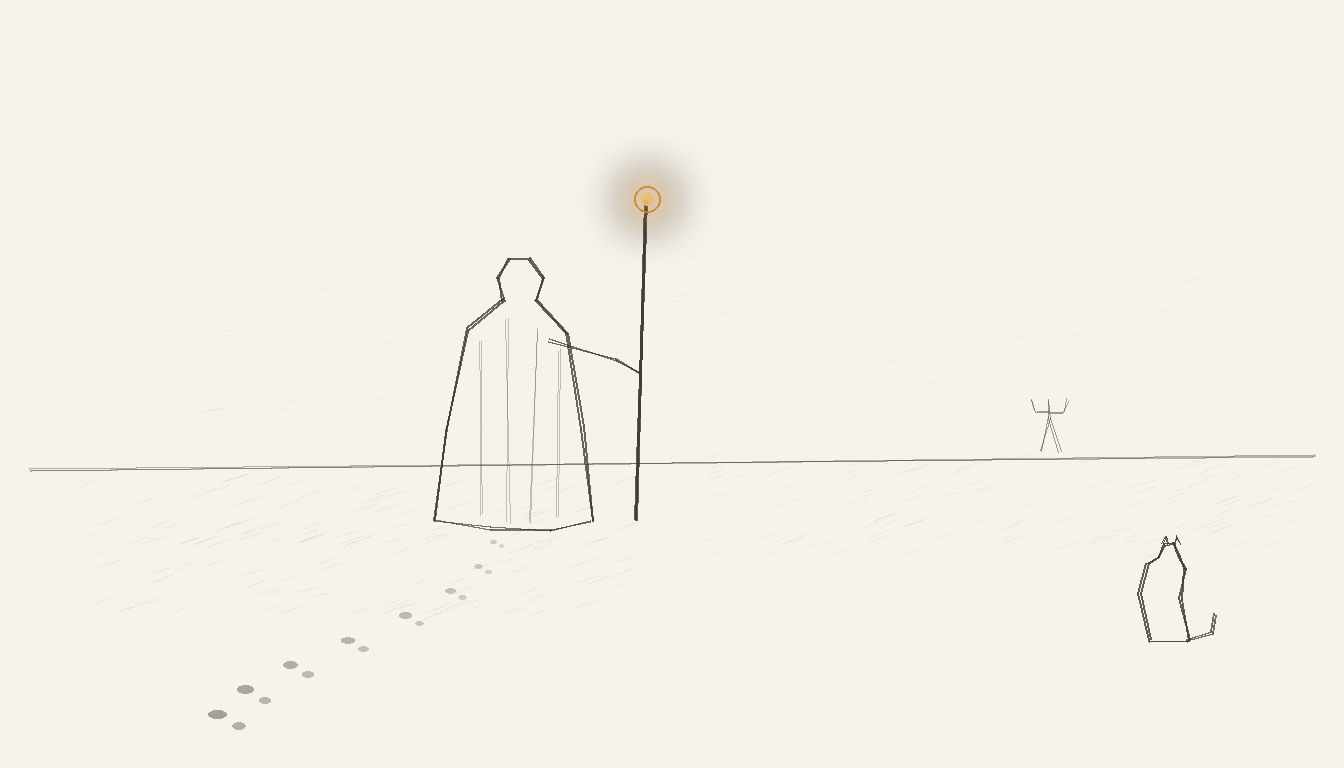
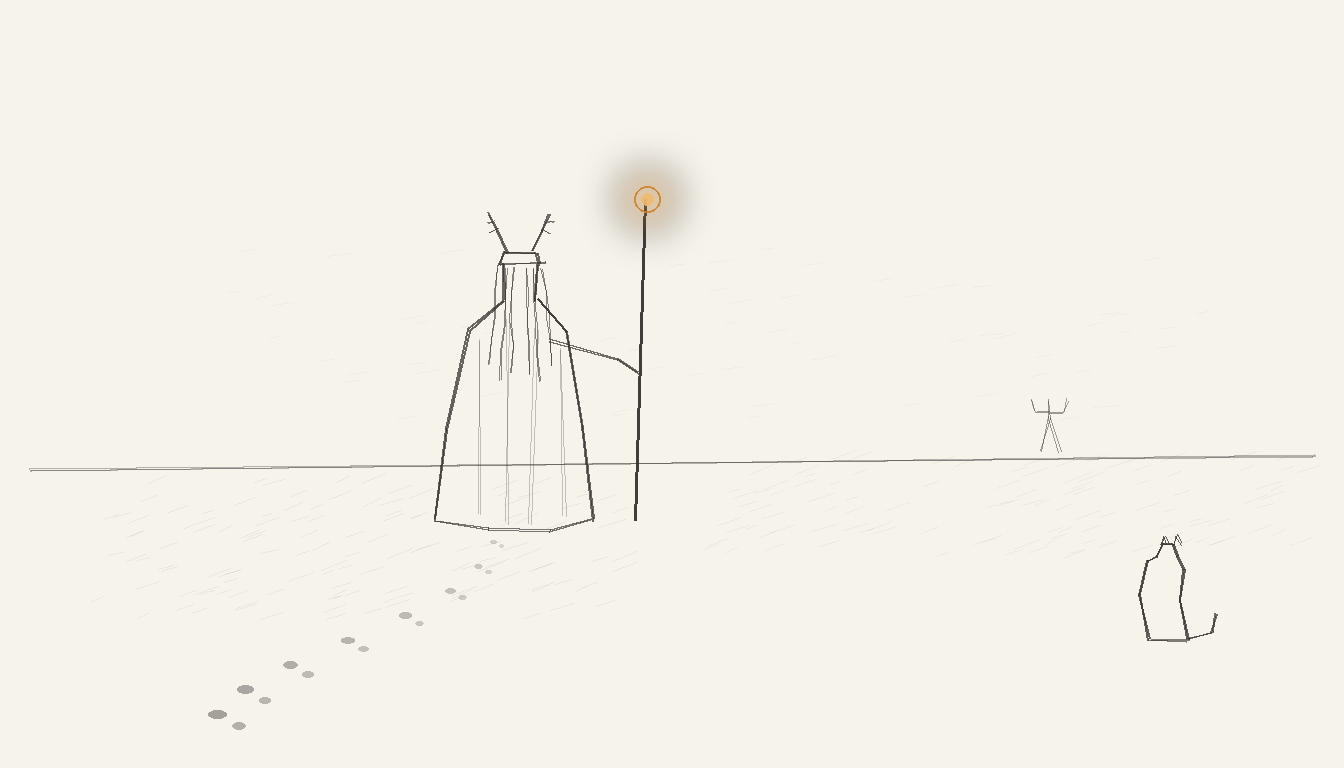
docs: the Wizard is a Quebec wizard — Windigo spec (antlered cap, dreadlocks) in page, hero, cameo

Changed region(s): [[0.3438, 0.3125, 0.4375, 0.6875], [0.8438, 0.7812, 0.9062, 0.8438], [0.8438, 0.6875, 0.875, 0.75]]

diff --git a/tools/gen_hero_image.py b/tools/gen_hero_image.py
@@ -91,8 +91,9 @@ DEFAULT_FLUX_VENV = pathlib.Path.home() / "Projects" / "comfy-lab" / ".venv-flux
 # the page is actually about him. Appended by --wizard so individual prompts
 # don't have to re-describe him and he stays visually consistent across pages.
 WIZARD_CAMEO = (
-    ". Small in the background, a robed wizard figure with a tall staff "
-    "tipped by a single softly glowing amber halo watches from the dust "
+    ". Small in the background, a robed wizard figure with long dreadlocks "
+    "and a cap crowned with small deer antlers, holding a tall staff "
+    "tipped by a single softly glowing amber halo, watches from the dust "
     "haze, back turned, unhurried, hand-drawn in the same pencil style"
 )
 
